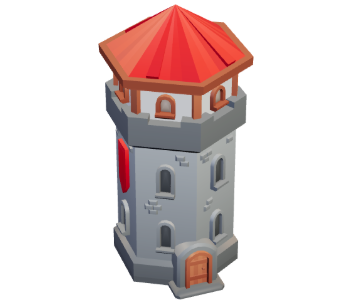
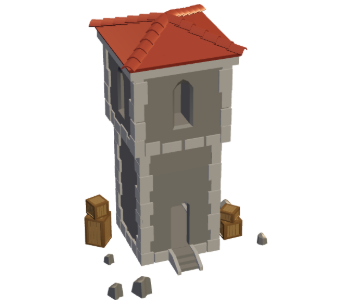
change visual city

diff --git a/js/data/cityLayout.js b/js/data/cityLayout.js
@@ -1,26 +1,31 @@
 // Как выглядит город: дома для красоты, деревья, мелочи и места интереса. Здания со службами — в data/buildings.js.
 // Координаты — во всём городе: западная слобода 0–260, старый город 260–620, восточная слобода 620–880, высота 780.
 // Дороги: главная — по x 420–460 сверху до входа в подземелье, поперечные — по y 243–283, 388–428 и 532–572.
-// Рисунки — 3D-модели KayKit (assets/images/city/имя.png); земля нарисована в assets/images/city/ground.jpg по этим же данным.
+// Рисунки — 3D-модели (assets/images/city/имя.png, авторы на экране «Авторы»); земля нарисована в assets/images/city/ground.jpg по этим же данным.
 
 // Жилые дома, мельницы и башни: к ним нельзя зайти, но они загораживают проход. x и y — левый верхний угол места 88×76
 export const DECOR_HOUSES = [
-  { sprite: "deco-home-a-red", x: 272, y: 34 },
-  { sprite: "deco-home-b-yellow", x: 520, y: 30 },
-  { sprite: "deco-home-a-green", x: 272, y: 600 },
-  { sprite: "deco-home-b-green", x: 520, y: 600 },
-  { sprite: "deco-windmill", x: 22, y: 30 },
-  { sprite: "deco-home-a-yellow", x: 22, y: 296 },
-  { sprite: "deco-home-b-red", x: 22, y: 440 },
-  { sprite: "deco-lumbermill", x: 40, y: 600 },
-  { sprite: "deco-home-a-red", x: 160, y: 612 },
-  { sprite: "deco-watermill", x: 650, y: 30 },
+  { sprite: "deco-house-1", x: 272, y: 34 },
+  { sprite: "deco-house-2", x: 520, y: 30 },
+  { sprite: "deco-mill", x: 22, y: 30 },
+  { sprite: "deco-house-3", x: 22, y: 296 },
+  { sprite: "deco-house-4", x: 22, y: 440 },
+  { sprite: "deco-sawmill", x: 40, y: 600 },
+  { sprite: "deco-house-5", x: 160, y: 612 },
+  { sprite: "deco-stable", x: 650, y: 30 },
   { sprite: "deco-tower", x: 778, y: 140 },
-  { sprite: "deco-home-a-yellow", x: 772, y: 296 },
-  { sprite: "deco-home-b-green", x: 772, y: 440 },
-  { sprite: "deco-home-b-red", x: 650, y: 600 },
-  { sprite: "deco-home-a-green", x: 770, y: 612 },
+  { sprite: "deco-house-6", x: 772, y: 296 },
+  { sprite: "deco-house-1", x: 772, y: 440 },
+  { sprite: "deco-house-2", x: 650, y: 600 },
+  { sprite: "deco-house-5", x: 770, y: 612 },
 ];
+
+// Гильдия и торговец — дома обычного размера внизу старого города, у входа в подземелье:
+// перед спуском удобно зайти к торговцу. x и y — левый верхний угол места 88×76
+export const SERVICE_HOUSES = {
+  guild: { sprite: "guild", x: 272, y: 600, width: 88, height: 76 },
+  trader: { sprite: "trader", x: 520, y: 600, width: 88, height: 76 },
+};
 
 // Деревья и мелочи: x и y — точка, где предмет стоит на земле; size — ширина рисунка на карте
 export const DECOR_PROPS = [
@@ -56,6 +61,10 @@ export const DECOR_PROPS = [
   { sprite: "prop-target", x: 636, y: 376, size: 22 },
   { sprite: "prop-barrel", x: 120, y: 218, size: 16 },
   { sprite: "prop-crates", x: 610, y: 516, size: 18 },
+  // У центральной площади, где раньше стояли домики гильдии и торговца
+  { sprite: "tree-b", x: 498, y: 368, size: 44 },
+  { sprite: "prop-crates", x: 486, y: 506, size: 20 },
+  { sprite: "prop-barrel", x: 508, y: 500, size: 18 },
 ];
 
 // Места интереса: колодец желаний, доска объявлений и дом летописца. x и y — левый верхний угол, width и height — размер

diff --git a/js/data/credits.js b/js/data/credits.js
@@ -20,8 +20,11 @@ export const ICON_AUTHORS = {
 // 3D-модели бойцов, старейшины и города: перекрашены, поставлены в позу и отрисованы в спрайты.
 // Модели CC BY 3.0 требуют указать автора, остальные — общественное достояние (CC0)
 export const MODEL_CREDITS = [
-  { work: "KayKit: Adventurers, Skeletons, Dungeon Remastered, Medieval Hexagon", author: "Kay Lousberg", licence: "CC0" },
+  { work: "KayKit: Adventurers, Skeletons, Dungeon Remastered, Medieval Hexagon (деревья и мелочи города)", author: "Kay Lousberg", licence: "CC0" },
   { work: "Spider, Rat, Wolf, Demon, Ghost, Ghost Skull, Dragon Evolved, Zombie", author: "Quaternius", licence: "CC0" },
+  { work: "Дома города: Fantasy Inn, Fantasy House, Blacksmith, Bell Tower, Barracks, Castle, Mill, Sawmill, Stable, Well и другие", author: "Quaternius", licence: "CC0" },
+  { work: "Cottage", author: "CreativeTrio", licence: "CC0" },
+  { work: "Church, Gate (poly.pizza)", author: "Poly by Google", licence: "CC BY 3.0" },
   { work: "Colossus pre Tilt Brush", author: "Darwin Yamamoto", licence: "CC BY 3.0" },
 ];
 

diff --git a/service-worker.js b/service-worker.js
@@ -60,16 +60,16 @@ const FILES = [
   "./assets/images/city/board.png",
   "./assets/images/city/chronicler.png",
   "./assets/images/city/cosmetics.png",
-  "./assets/images/city/deco-home-a-green.png",
-  "./assets/images/city/deco-home-a-red.png",
-  "./assets/images/city/deco-home-a-yellow.png",
-  "./assets/images/city/deco-home-b-green.png",
-  "./assets/images/city/deco-home-b-red.png",
-  "./assets/images/city/deco-home-b-yellow.png",
-  "./assets/images/city/deco-lumbermill.png",
+  "./assets/images/city/deco-house-1.png",
+  "./assets/images/city/deco-house-2.png",
+  "./assets/images/city/deco-house-3.png",
+  "./assets/images/city/deco-house-4.png",
+  "./assets/images/city/deco-house-5.png",
+  "./assets/images/city/deco-house-6.png",
+  "./assets/images/city/deco-mill.png",
+  "./assets/images/city/deco-sawmill.png",
+  "./assets/images/city/deco-stable.png",
   "./assets/images/city/deco-tower.png",
-  "./assets/images/city/deco-watermill.png",
-  "./assets/images/city/deco-windmill.png",
   "./assets/images/city/forge.png",
   "./assets/images/city/fortune.png",
   "./assets/images/city/gate.png",

diff --git a/js/data/buildings.js b/js/data/buildings.js
@@ -3,7 +3,7 @@
 // price — цена в золоте, у дома героев её нет: он есть с самого начала.
 // district — где стоит здание: center — старый город посередине (360×780), east и west — слободы по бокам.
 // Все дома можно строить с самого начала: слободы стоят по бокам старого города сразу.
-// x и y — место в своём районе. Рисунок здания — assets/images/city/id.png (3D-модель KayKit), до постройки — plot.png.
+// x и y — место в своём районе. Рисунок здания — assets/images/city/id.png (3D-модель, авторы — на экране «Авторы»), до постройки — plot.png.
 export const BUILDINGS = {
   home: {
     id: "home",
